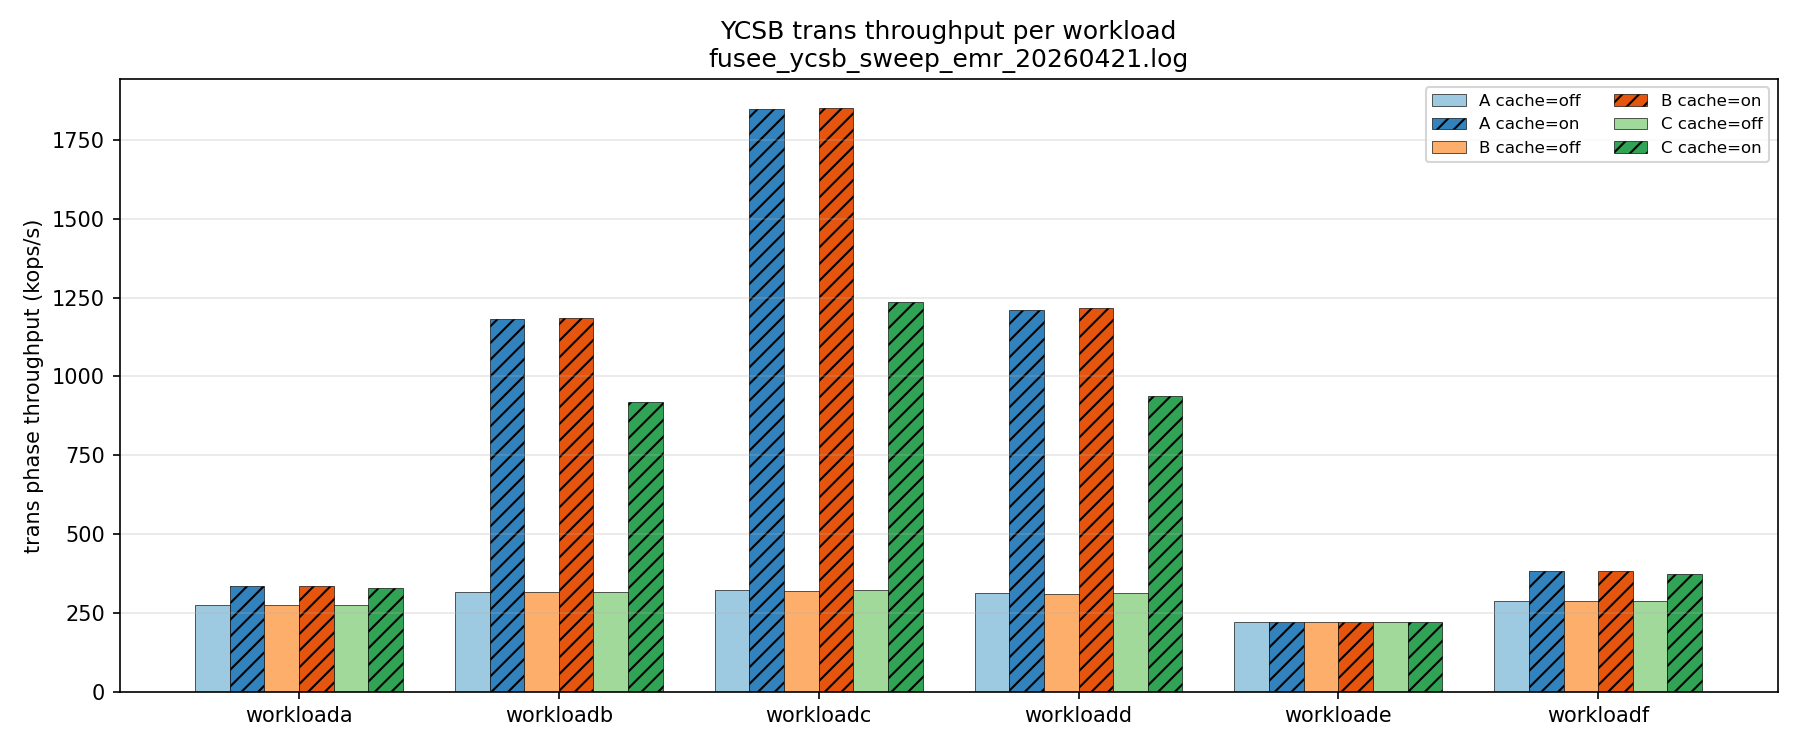
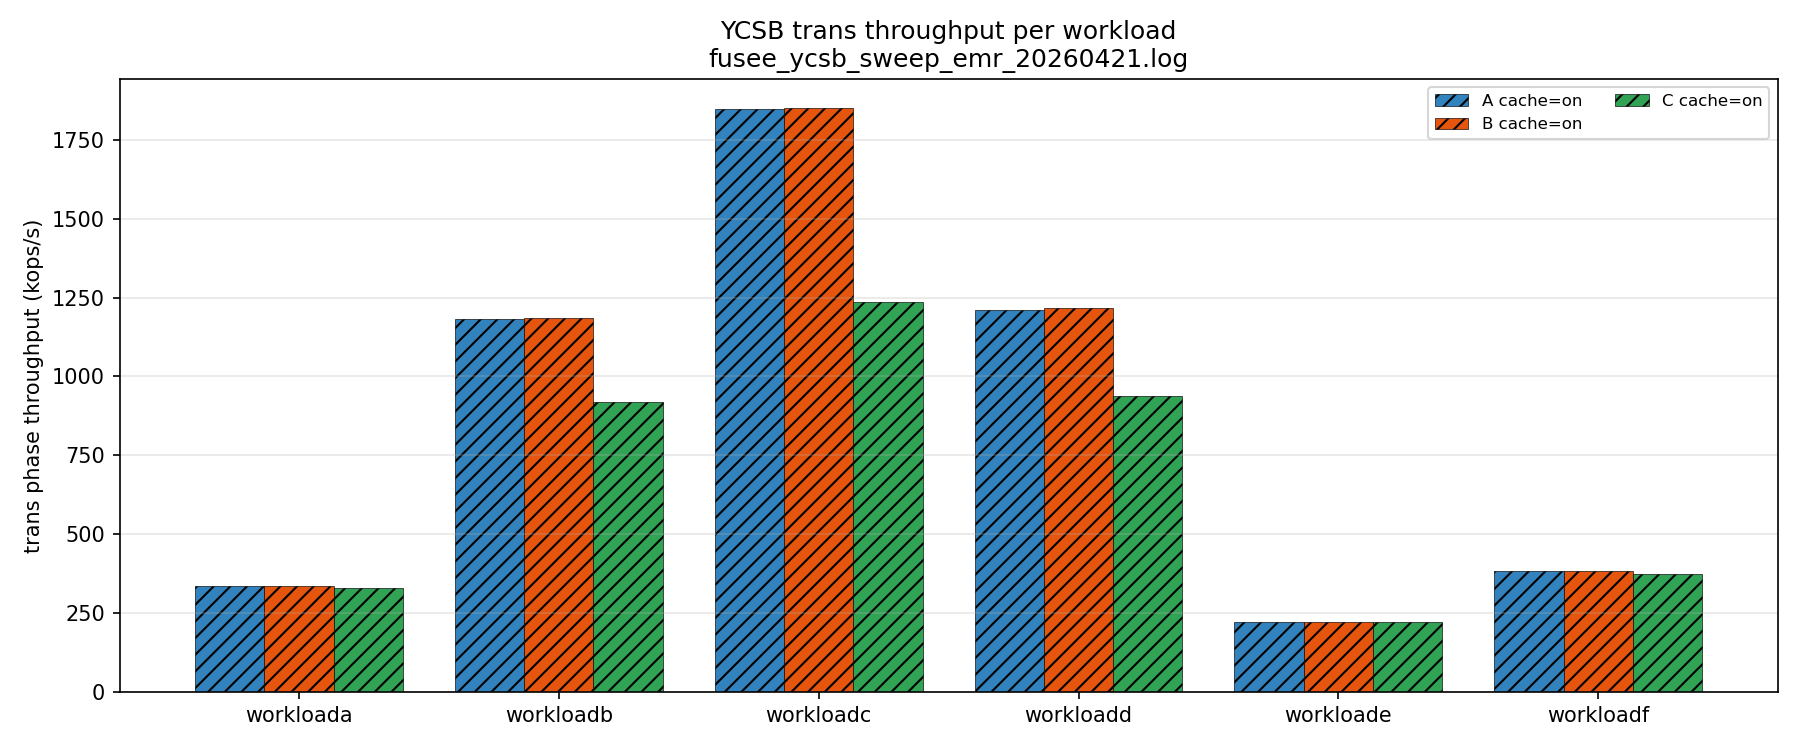
[viz] YCSB plot: add FUSEE_YCSB_CACHE_FILTER env; emr plot now cache-on only

diff --git a/docs/plot_fusee_ycsb.py b/docs/plot_fusee_ycsb.py
@@ -65,6 +65,13 @@ def plot(path, runs):
     opts = ["A", "B", "C"]
     caches_in_log = sorted({c for (_, _, c) in runs.keys()})
 
+    # Env filter: FUSEE_YCSB_CACHE_FILTER = "on" | "off" | "" (any)
+    cache_filter = os.environ.get("FUSEE_YCSB_CACHE_FILTER", "").lower()
+    if cache_filter == "on":
+        caches_in_log = [c for c in caches_in_log if c == 1]
+    elif cache_filter == "off":
+        caches_in_log = [c for c in caches_in_log if c == 0]
+
     have_off = 0 in caches_in_log
     have_on = 1 in caches_in_log
 
